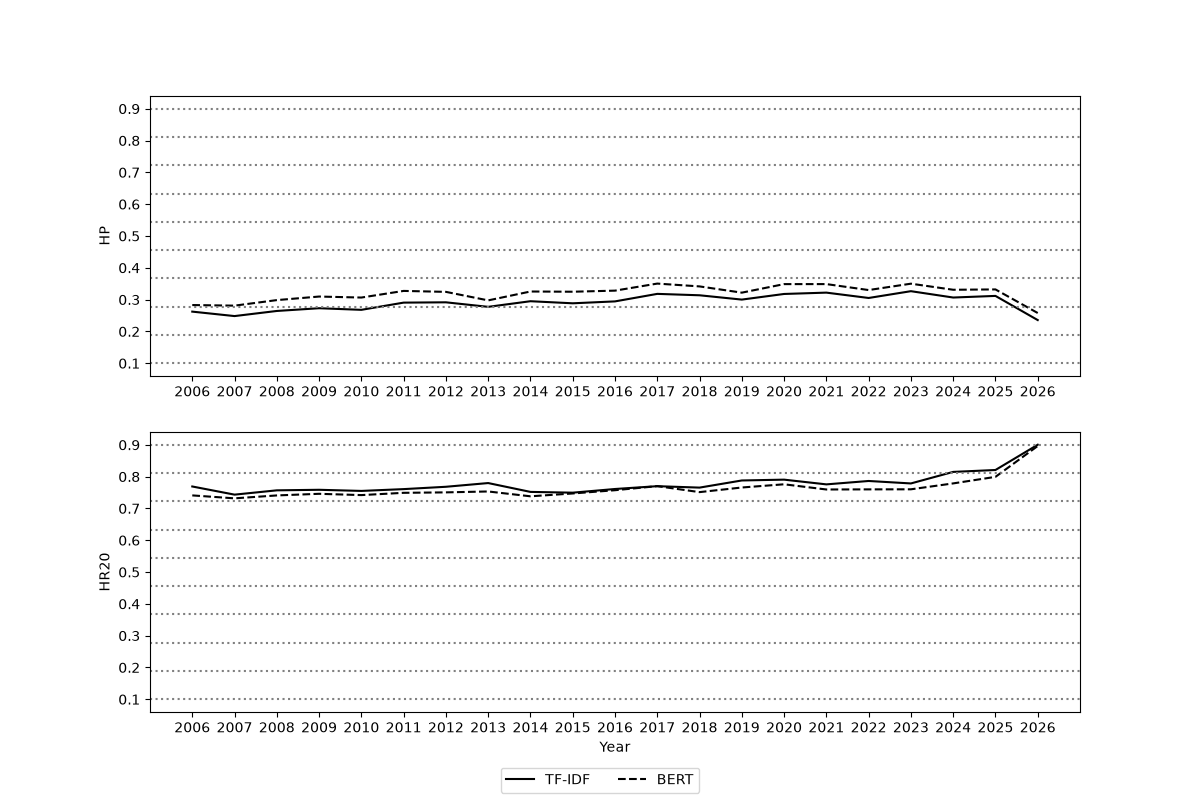
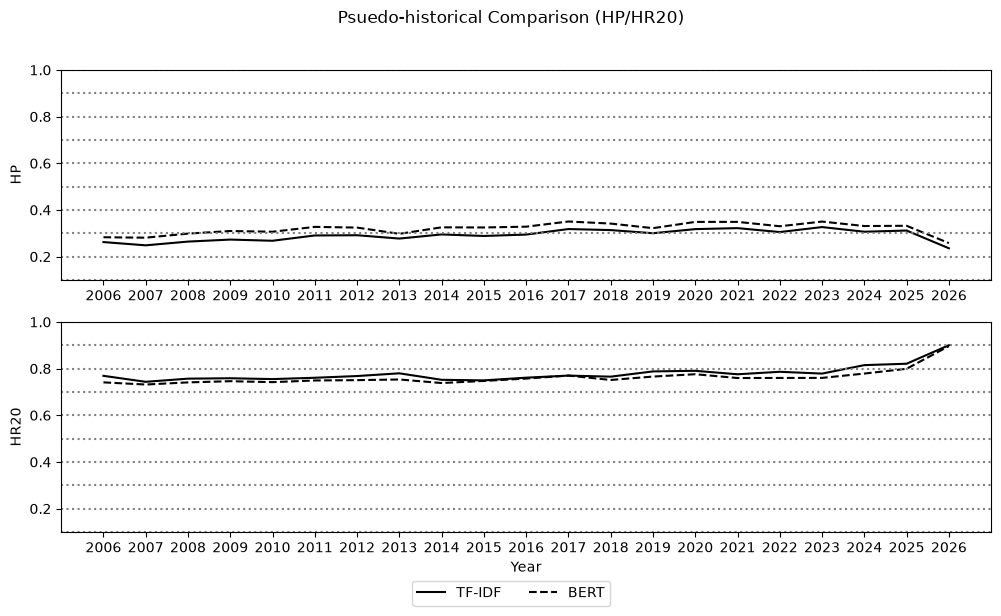
Update visualizations with propper titles, head2head comparison of hf score

diff --git a/tests/util/visualize.py b/tests/util/visualize.py
@@ -3,11 +3,16 @@ import json
 import functools
 
 from matplotlib import pyplot
+from matplotlib.patches import Patch
 from pathlib import Path
 
 CACHE_DIR = Path(__file__, "../../../data/cache").resolve()
 
-PARAMETER_KEY_MAP = {"classifier__n_neighbors": "K", "classifier__e_amplification": "Amplification"}
+PARAMETER_KEY_MAP = {
+    "classifier__n_neighbors": "K",
+    "classifier__e_amplification": "Amplification",
+    "classifier__n_labels": "Limit",
+}
 
 
 def plot_hyperparameter_comparison(result, n_labels=20):
@@ -64,7 +69,7 @@ def plot_historical_comparison(result_tfidf, result_bert, metric="exact"):
     x = numpy.array([int(key) for key in result_tfidf.keys()])
 
     xmin, xmax = numpy.min(x) - 1, numpy.max(x) + 1
-    ymin, ymax = 0.1, 0.9
+    ymin, ymax = 0.1, 1
 
     metric_keys = ["mrr", "mar"] if metric == "exact" else ["hp", "hr"]
     metric_labels = ["MRR", "R20"] if metric == "exact" else ["HP", "HR20"]
@@ -78,36 +83,91 @@ def plot_historical_comparison(result_tfidf, result_bert, metric="exact"):
         axis.set_ylabel(metric_labels[0] if key == metric_keys[0] else metric_labels[1])
         axis.set_xlabel("Year" if i else "")
         axis.set_xlim(xmin, xmax)
+        axis.set_ylim(ymin, ymax)
 
         axis.plot(x, y_tfidf, label="TF-IDF" if not i else "", color="black", linestyle="solid")
         axis.plot(x, y_bert, label="BERT" if not i else "", color="black", linestyle="dashed")
 
         axis.hlines(numpy.linspace(ymin, ymax, 10), xmin, xmax, color="gray", linestyle="dotted")
 
-    figure.legend(loc="lower center", ncol=2)
+    figure.legend(loc="lower center", ncol=2, bbox_to_anchor=(0.5, -0.025))
+    figure.suptitle(f"Psuedo-historical Comparison ({"MRR/R20" if metric == "exact" else "HP/HR20"})")
 
     return figure
 
 
 def plot_tfidf_versus_bert_hf(result_tfidf, result_bert):
+    figure, axes = pyplot.subplots(1, 3)
 
-    print(numpy.array(result_tfidf["mean_test_hf"]) < numpy.array(result_bert["mean_test_hf"]))
+    parameters = {}
+
+    for group in result_tfidf["params"]:
+        for key, value in group.items():
+            values = parameters.setdefault(key, [])
+            values.append(value)
+
+    parameters = {key: numpy.array(value) for key, value in parameters.items()}
+    options = {key: numpy.unique(value) for key, value in parameters.items()}
+
+    for i, (axis, n_labels) in enumerate(zip(axes, options["classifier__n_labels"])):
+        fixed_n_labels_idxs = numpy.argwhere(parameters["classifier__n_labels"] == n_labels).flatten()
+
+        x = parameters["classifier__n_neighbors"][fixed_n_labels_idxs]
+        y = parameters["classifier__e_amplification"][fixed_n_labels_idxs]
+
+        X, Y = numpy.meshgrid(numpy.unique(x), numpy.unique(y))
+
+        z_tfidf = numpy.array(result_tfidf["mean_test_hf"])[fixed_n_labels_idxs]
+        z_bert = numpy.array(result_bert["mean_test_hf"])[fixed_n_labels_idxs]
+        z = z_tfidf < z_bert
+
+        Z = z.reshape(X.shape)
+
+        if i == 0:
+            axis.set_ylabel(PARAMETER_KEY_MAP["classifier__e_amplification"])
+        elif i == 1:
+            axis.set_xlabel(PARAMETER_KEY_MAP["classifier__n_neighbors"])
+
+        label = PARAMETER_KEY_MAP["classifier__n_labels"]
+
+        axis.set_title(f"{label}={n_labels}", size=10)
+
+        axis.set_xticks(options["classifier__n_neighbors"])
+        axis.set_yticks(options["classifier__e_amplification"])
+
+        xmin, xmax = numpy.min(x) - numpy.min(x) / 2, numpy.max(x) + numpy.max(x) / 4
+        ymin, ymax = numpy.min(y) - 1, numpy.max(y) + 1
+
+        vline_xval = numpy.array([value * 1.5 for value in options["classifier__n_neighbors"]])[:-1]
+        hline_yval = numpy.array([value + 1 for value in options["classifier__e_amplification"]])[:-1]
+
+        axis.vlines(vline_xval, ymin, ymax, color="gray", linestyle="dotted")
+        axis.hlines(hline_yval, xmin, xmax, color="gray", linestyle="dotted")
+
+        axis.pcolormesh(X, Y, Z, vmin=0, vmax=1, cmap="gray")
+
+    patches = [Patch(color="black", label=" TF-IDF > BERT")]
+
+    figure.legend(handles=patches, loc="lower center", bbox_to_anchor=(0.5, -0.1))
+
+    figure.suptitle("TF-IDF vs. BERT Binary Comparison (HF)")
+
+    return figure
 
 
-"""
 for method in ["tfidf", "bert"]:
     with open(CACHE_DIR.joinpath(f"hyperparameters_{method}_hierarchical.json")) as file:
         result = json.load(file)
 
     figure = plot_hyperparameter_comparison(result)
 
-    figure.suptitle("BERT" if method == "bert" else "TF-IDF", size=12)
     figure.set_size_inches((12, 6))
+
+    figure.suptitle(f"{"BERT" if method == "bert" else "TF-IDF"} Hyperparameters")
 
     output_path = Path.joinpath(CACHE_DIR, f"hyperparameters_{method}.png")
 
     figure.savefig(output_path)
-"""
 
 with open(CACHE_DIR.joinpath(f"historical_tfidf_exact.json")) as file:
     result_tfidf = json.load(file)
@@ -117,11 +177,11 @@ with open(CACHE_DIR.joinpath(f"historical_bert_exact.json")) as file:
 
 figure = plot_historical_comparison(result_tfidf, result_bert, metric="exact")
 
-figure.set_size_inches((12, 8))
+figure.set_size_inches((12, 6))
 
 output_path = Path.joinpath(CACHE_DIR, f"historical_exact.png")
 
-figure.savefig(output_path)
+figure.savefig(output_path, bbox_inches="tight")
 
 with open(CACHE_DIR.joinpath(f"historical_tfidf_hierarchical.json")) as file:
     result_tfidf = json.load(file)
@@ -131,14 +191,11 @@ with open(CACHE_DIR.joinpath(f"historical_bert_hierarchical.json")) as file:
 
 figure = plot_historical_comparison(result_tfidf, result_bert, metric="hierarchical")
 
-figure.set_size_inches((12, 8))
+figure.set_size_inches((12, 6))
 
 output_path = Path.joinpath(CACHE_DIR, f"historical_hierarchical.png")
 
-figure.savefig(output_path)
-
-
-"""
+figure.savefig(output_path, bbox_inches="tight")
 
 with open(CACHE_DIR.joinpath(f"hyperparameters_tfidf_hierarchical.json")) as file:
     result_tfidf = json.load(file)
@@ -148,9 +205,8 @@ with open(CACHE_DIR.joinpath(f"hyperparameters_bert_hierarchical.json")) as file
 
 figure = plot_tfidf_versus_bert_hf(result_tfidf, result_bert)
 
-# figure.set_size_inches((12, 8))
+figure.set_size_inches((12, 4))
 
-# output_path = Path.joinpath(CACHE_DIR, f"historical.png")
+output_path = Path.joinpath(CACHE_DIR, f"tfidf_versus_bert_hf.png")
 
-# figure.savefig(output_path)
-"""
+figure.savefig(output_path, bbox_inches="tight")
